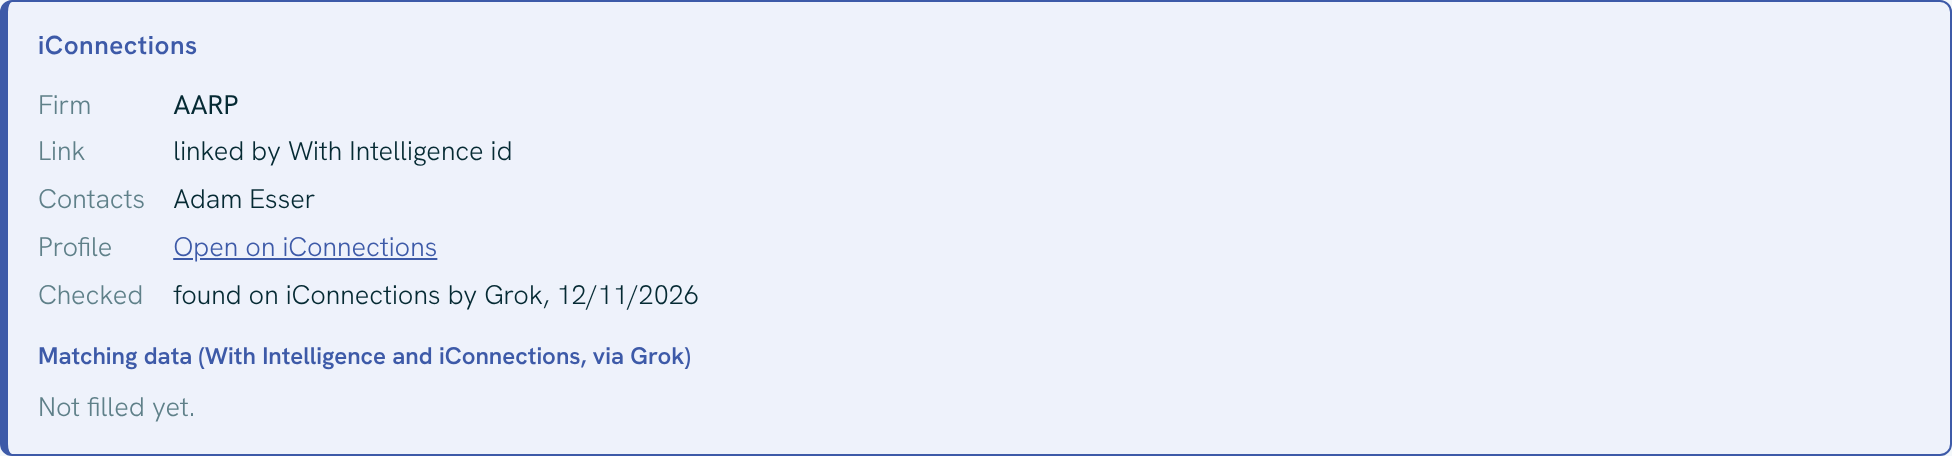
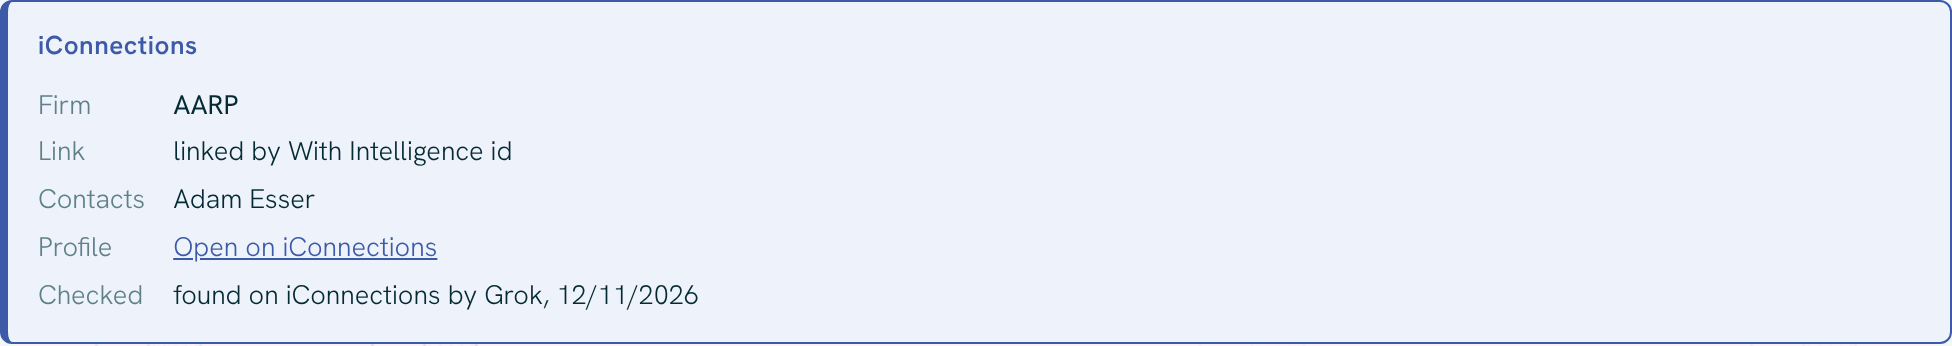
Card: one iConnections state per card (link, candidate or not found); contact block only when loaded
Claude-Session: https://claude.ai/code/session_01U33ywHjQFVUYNXC5CP776w

diff --git a/app.js b/app.js
@@ -1279,9 +1279,9 @@ function iconnSection(d, state) {
         f0.notes ? el('span', null, String(f0.notes).replace(/^Not certain it is the same firm, so left blank\.\s*/, '')
           .replace(/^Possible match:[^)]*\)\.\s*/, '')) : null)));
   }
-  if (!links.length && gs !== 'found') box.appendChild(el('div', { class: 'iconn-v', style: 'font-weight:600' },
-    gs === 'candidate' ? 'Not confirmed on iConnections'
-      : 'Not on iConnections' + (gs === 'not_found' ? ' (checked' + (f0.read_on ? ' ' + fmtDate(f0.read_on) : '') + ')' : '')));
+  // One state per card: a confirmed link (above), a candidate (above), or not on iConnections.
+  if (!links.length && gs !== 'found' && gs !== 'candidate') box.appendChild(el('div', { class: 'iconn-v', style: 'font-weight:600' },
+    'Not on iConnections' + (gs === 'not_found' ? ' (checked' + (f0.read_on ? ' ' + fmtDate(f0.read_on) : '') + ')' : '')));
   for (const l of links) {
     const ppl = (Array.isArray(l.people) ? l.people : []).filter(Boolean);
     box.appendChild(el('div', { class: 'iconn-kv' },
@@ -1297,13 +1297,11 @@ function iconnSection(d, state) {
       gs === 'found' && l === links[0] ? el('span', null, 'found on iConnections by Grok' + (f0.read_on ? ', ' + fmtDate(f0.read_on) : '')) : null));
   }
   const f = d.firm || null, people = Array.isArray(d.people) ? d.people : [];
-  box.appendChild(el('div', { class: 'iconn-sub' }, 'Matching data (With Intelligence and iConnections, via Grok)'));
-  // The iConnections read alone (firm, link, status) is shown above; contact details come from the WI read.
+  // Firm contact details and people (from a With Intelligence read): shown only when loaded. The
+  // iConnections read itself (firm, link, status) is shown above.
   const hasDetails = f && ['website', 'firm_linkedin', 'general_email', 'phone', 'address', 'other_names'].some(k => f[k]);
-  if (!hasDetails && !people.length) {
-    box.appendChild(el('div', { class: 'iconn-none' }, 'Not filled yet.'));
-    return box;
-  }
+  if (!hasDetails && !people.length) return box;
+  box.appendChild(el('div', { class: 'iconn-sub' }, 'Contact details (With Intelligence, via Grok)'));
   const web = (u) => u && /^https?:\/\//i.test(u)
     ? el('a', { href: u, target: '_blank', rel: 'noopener noreferrer' }, u.replace(/^https?:\/\/(www\.)?/i, '').replace(/\/$/, ''))
     : (u || null);

diff --git a/scripts/iconn-card-tulane-screenshot.js b/scripts/iconn-card-tulane-screenshot.js
@@ -1,0 +1,19 @@
+// Tulane's card (row 1379, its stored fields) with its loaded iConnections row: a possible match only.
+const { chromium } = require('playwright');
+const firm = {"notes":"Not certain it is the same firm, so left blank. Possible match: Tulane University (https://app.iconnections.io/allocators/company/7415/overview). Candidate \"Tulane University\" page shows White Plains, NY, not New Orleans; not confirmed.","read_on":"2026-11-12","read_status":"read","iconn_status":"candidate","investor_name":"Tulane University Endowment","wi_investor_id":"3948","iconn_firm_name":"Tulane University","iconn_profile_url":"https://app.iconnections.io/allocators/company/7415/overview"};
+(async () => {
+  const b = await chromium.launch();
+  const p = await b.newPage({ viewport: { width: 1280, height: 1000 }, deviceScaleFactor: 2 });
+  const errs = []; p.on('pageerror', e => errs.push(e.message));
+  await p.goto('http://127.0.0.1:8765/index.html'); await p.click('#gate-demo');
+  await p.waitForFunction(() => typeof OPPS_ROWS !== 'undefined' && OPPS_ROWS && !OPPS_LOADING, null, { timeout: 15000 });
+  await p.evaluate(async (firm) => {
+    await openMandate(Object.assign({}, OPPS_ROWS[0], { id: 1379, investor_name: 'Tulane University Endowment', investor_country: 'US', investor_city: 'New Orleans',
+      investor_type: 'Endowment', evidence: { wi_investor_id: '3948' } }));
+    await new Promise(r => setTimeout(r, 700));
+    document.querySelector('.iconn-sec').replaceWith(iconnSection({ links: [], firm, people: [] }));
+  }, firm);
+  await p.waitForTimeout(300);
+  await p.locator('.iconn-sec').screenshot({ path: process.argv[2] });
+  console.log('errors:', errs.length ? errs : 'none'); await b.close();
+})();
